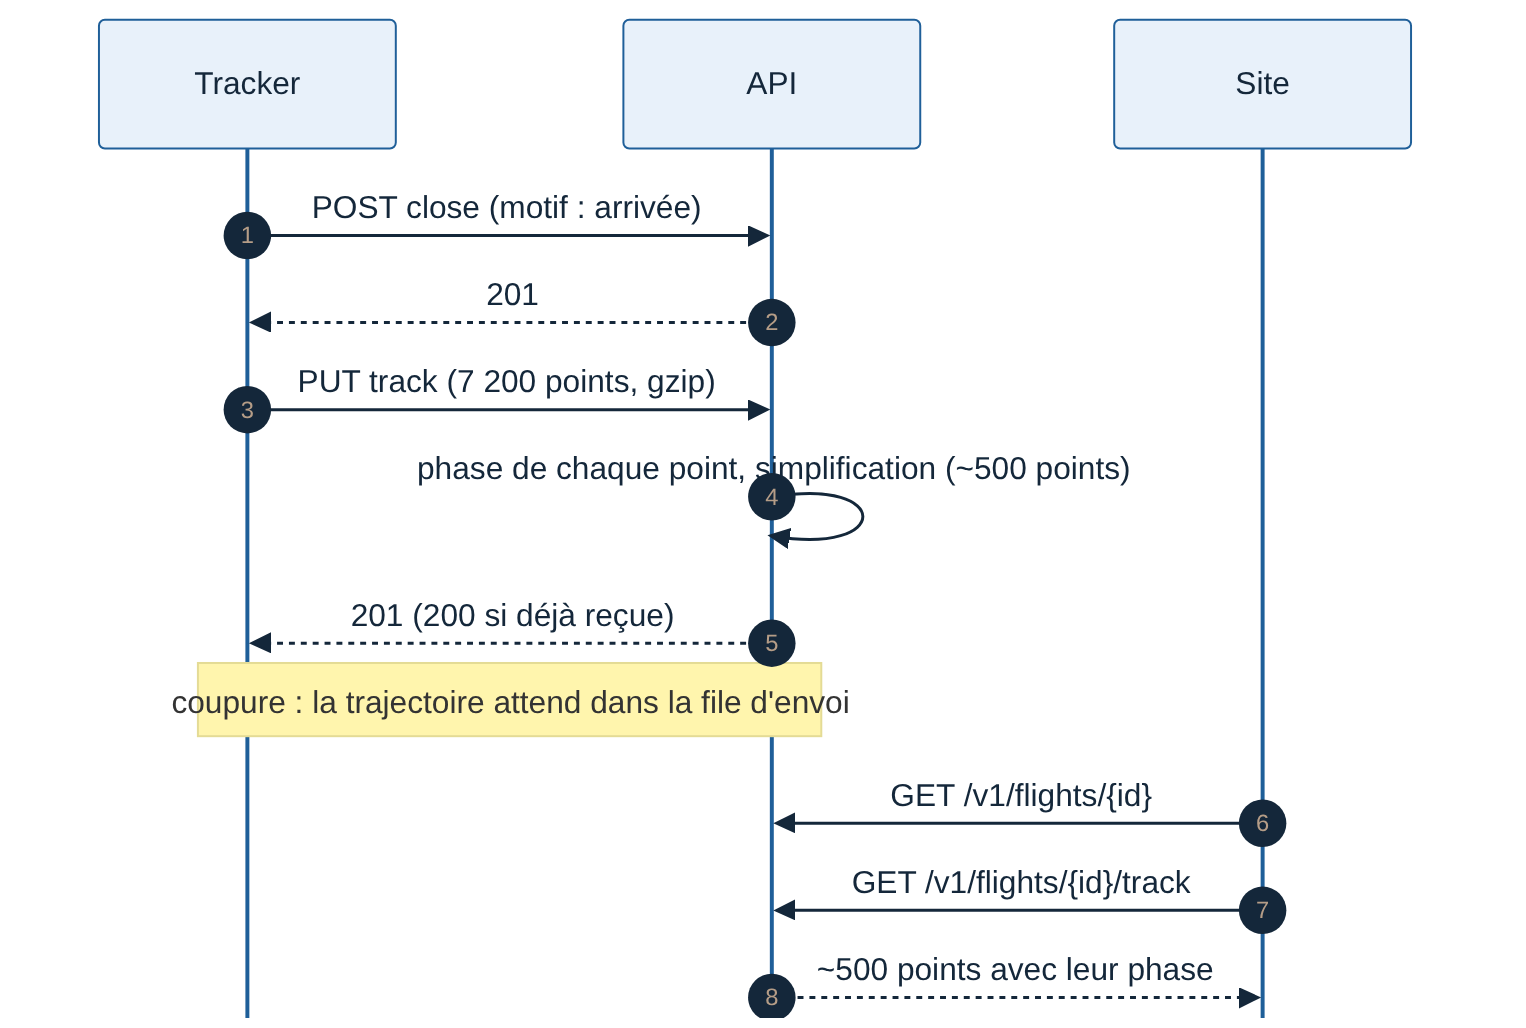
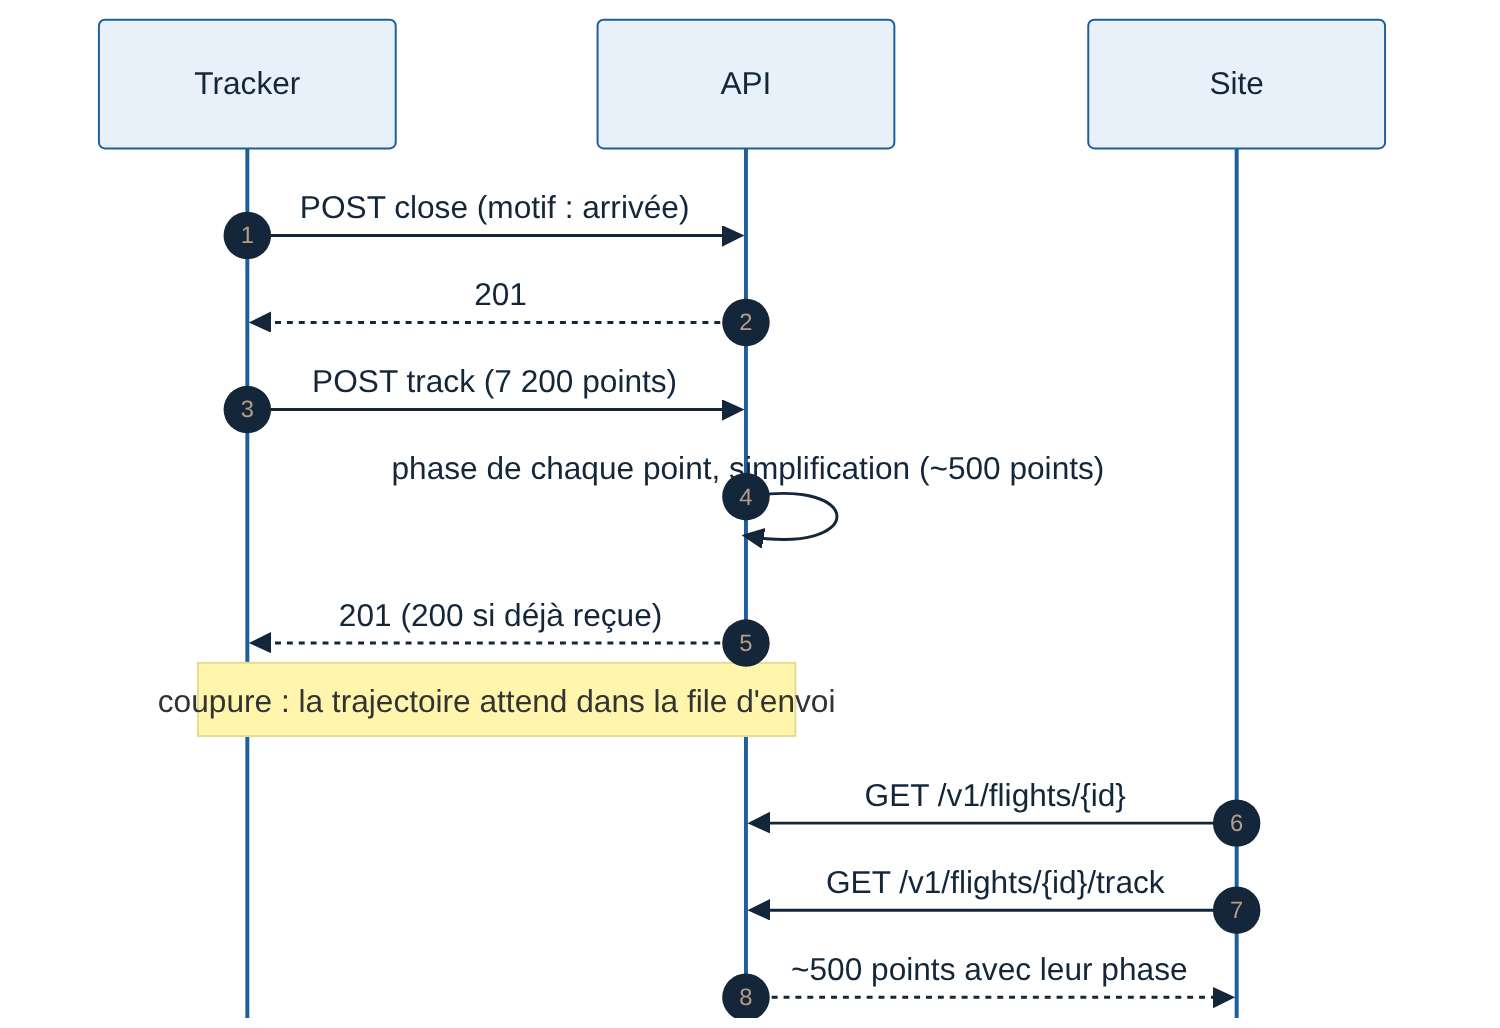
feat(api): trajectoire envoyée en POST, comme les autres messages du tracker
Même file d'envoi et mêmes règles de renvoi côté tracker.

Claude-Session: https://claude.ai/code/session_01N46qzVPwxrS6E5ALWkZeXj

diff --git a/apps/api/src/modules/tracks/tracks.test.ts b/apps/api/src/modules/tracks/tracks.test.ts
@@ -31,9 +31,9 @@ async function closedFlight() {
   });
   return id;
 }
-const put = (id: string, points: unknown) =>
+const upload = (id: string, points: unknown) =>
   app.inject({
-    method: "PUT",
+    method: "POST",
     url: `/v1/flights/${id}/track`,
     payload: { points },
     headers: TRACKER_HEADERS,
@@ -45,7 +45,7 @@ describe("trajectory (spec J2)", () => {
   it("stores a 2-hour trajectory and reads it back simplified, with phases", async () => {
     const id = await closedFlight();
     const track = syntheticTrack(7_200);
-    expect((await put(id, track)).statusCode).toBe(201);
+    expect((await upload(id, track)).statusCode).toBe(201);
 
     const view = (await get(id)).json();
     expect(view.recordedPoints).toBe(7_200);
@@ -58,13 +58,15 @@ describe("trajectory (spec J2)", () => {
   it("answers 200 to an identical re-send and 409 to a different one", async () => {
     const id = await closedFlight();
     const track = syntheticTrack(600);
-    await put(id, track);
-    expect((await put(id, track)).json()).toEqual({ result: "alreadyReceived" });
-    expect((await put(id, track.slice(1))).statusCode).toBe(409);
+    await upload(id, track);
+    expect((await upload(id, track)).json()).toEqual({ result: "alreadyReceived" });
+    expect((await upload(id, track.slice(1))).statusCode).toBe(409);
   });
 
   it("answers 404 for a flight without trajectory, or an unknown flight", async () => {
     expect((await get(await closedFlight())).statusCode).toBe(404);
-    expect((await put(syntheticFlight().open.flightId, syntheticTrack(10))).statusCode).toBe(404);
+    expect((await upload(syntheticFlight().open.flightId, syntheticTrack(10))).statusCode).toBe(
+      404,
+    );
   });
 });

diff --git a/apps/api/src/modules/tracks/routes.ts b/apps/api/src/modules/tracks/routes.ts
@@ -19,7 +19,7 @@ export function registerTrackRoutes(
 ): void {
   const app = parent.withTypeProvider<ZodTypeProvider>();
 
-  app.put(
+  app.post(
     "/v1/flights/:flightId/track",
     {
       onRequest: guards.tracker,

diff --git a/docs/cahiers-des-charges/spec-J2-premier-vrai-vol.md b/docs/cahiers-des-charges/spec-J2-premier-vrai-vol.md
@@ -66,7 +66,7 @@ Le cœur du tracker est le même qu'en J0 et J1. Seuls le connecteur et l'envoi 
 
 | Route | Rôle |
 | --- | --- |
-| `PUT /v1/flights/{flightId}/track` | Reçoit la trajectoire complète, une seule fois par vol. Renvoi identique : 200 ; trajectoire différente : 409 |
+| `POST /v1/flights/{flightId}/track` | Reçoit la trajectoire complète, une seule fois par vol. Renvoi identique : 200 ; trajectoire différente : 409 |
 | `GET /v1/flights` | Liste des vols du plus récent au plus ancien, 50 par page, pagination par curseur, filtres période, avion, aéroport |
 | `GET /v1/flights/{flightId}` | Déjà en place : en-tête, événements ; ajoute les durées (bloc, vol, pause) |
 | `GET /v1/flights/{flightId}/track` | Trajectoire **simplifiée** : environ 500 points pour la carte et le profil, chacun avec sa phase |
@@ -134,7 +134,7 @@ Voir la [spécification du site minimal](web/spec-J2-site-minimal.md) : liste `/
 
 | Sujet | Choix | Pourquoi |
 | --- | --- | --- |
-| Envoi de la trajectoire | `PUT`, JSON non compressé, 16 Mo au plus ; l'API compresse pour le stockage | Simple côté tracker ; sur le réseau local, 1,5 Mo passe en moins d'une seconde. La compression à l'envoi viendra avec l'alpha sur Internet si besoin |
+| Envoi de la trajectoire | `POST` comme les autres messages du tracker (même file d'envoi, mêmes règles de renvoi), JSON non compressé, 16 Mo au plus ; l'API compresse pour le stockage | Simple côté tracker ; sur le réseau local, 1,5 Mo passe en moins d'une seconde. La compression à l'envoi viendra avec l'alpha sur Internet si besoin |
 | Renvoi de la trajectoire | Empreinte SHA-256 gardée avec les points : même empreinte 200, sinon 409 | Reconnaît un renvoi sans décompresser |
 | Simplification | Douglas-Peucker en 3 dimensions, 1 000 ft d'écart comptent comme 1 NM ; décollages, atterrissages et changements de phase toujours gardés ; 500 points au plus | Le profil vertical reste fidèle à 200 ft près (vérifié par un test) |
 | Phase de chaque point | Calculée à la lecture depuis les événements, pas stockée | Une seule source de vérité, comme la dernière phase en J0 |
